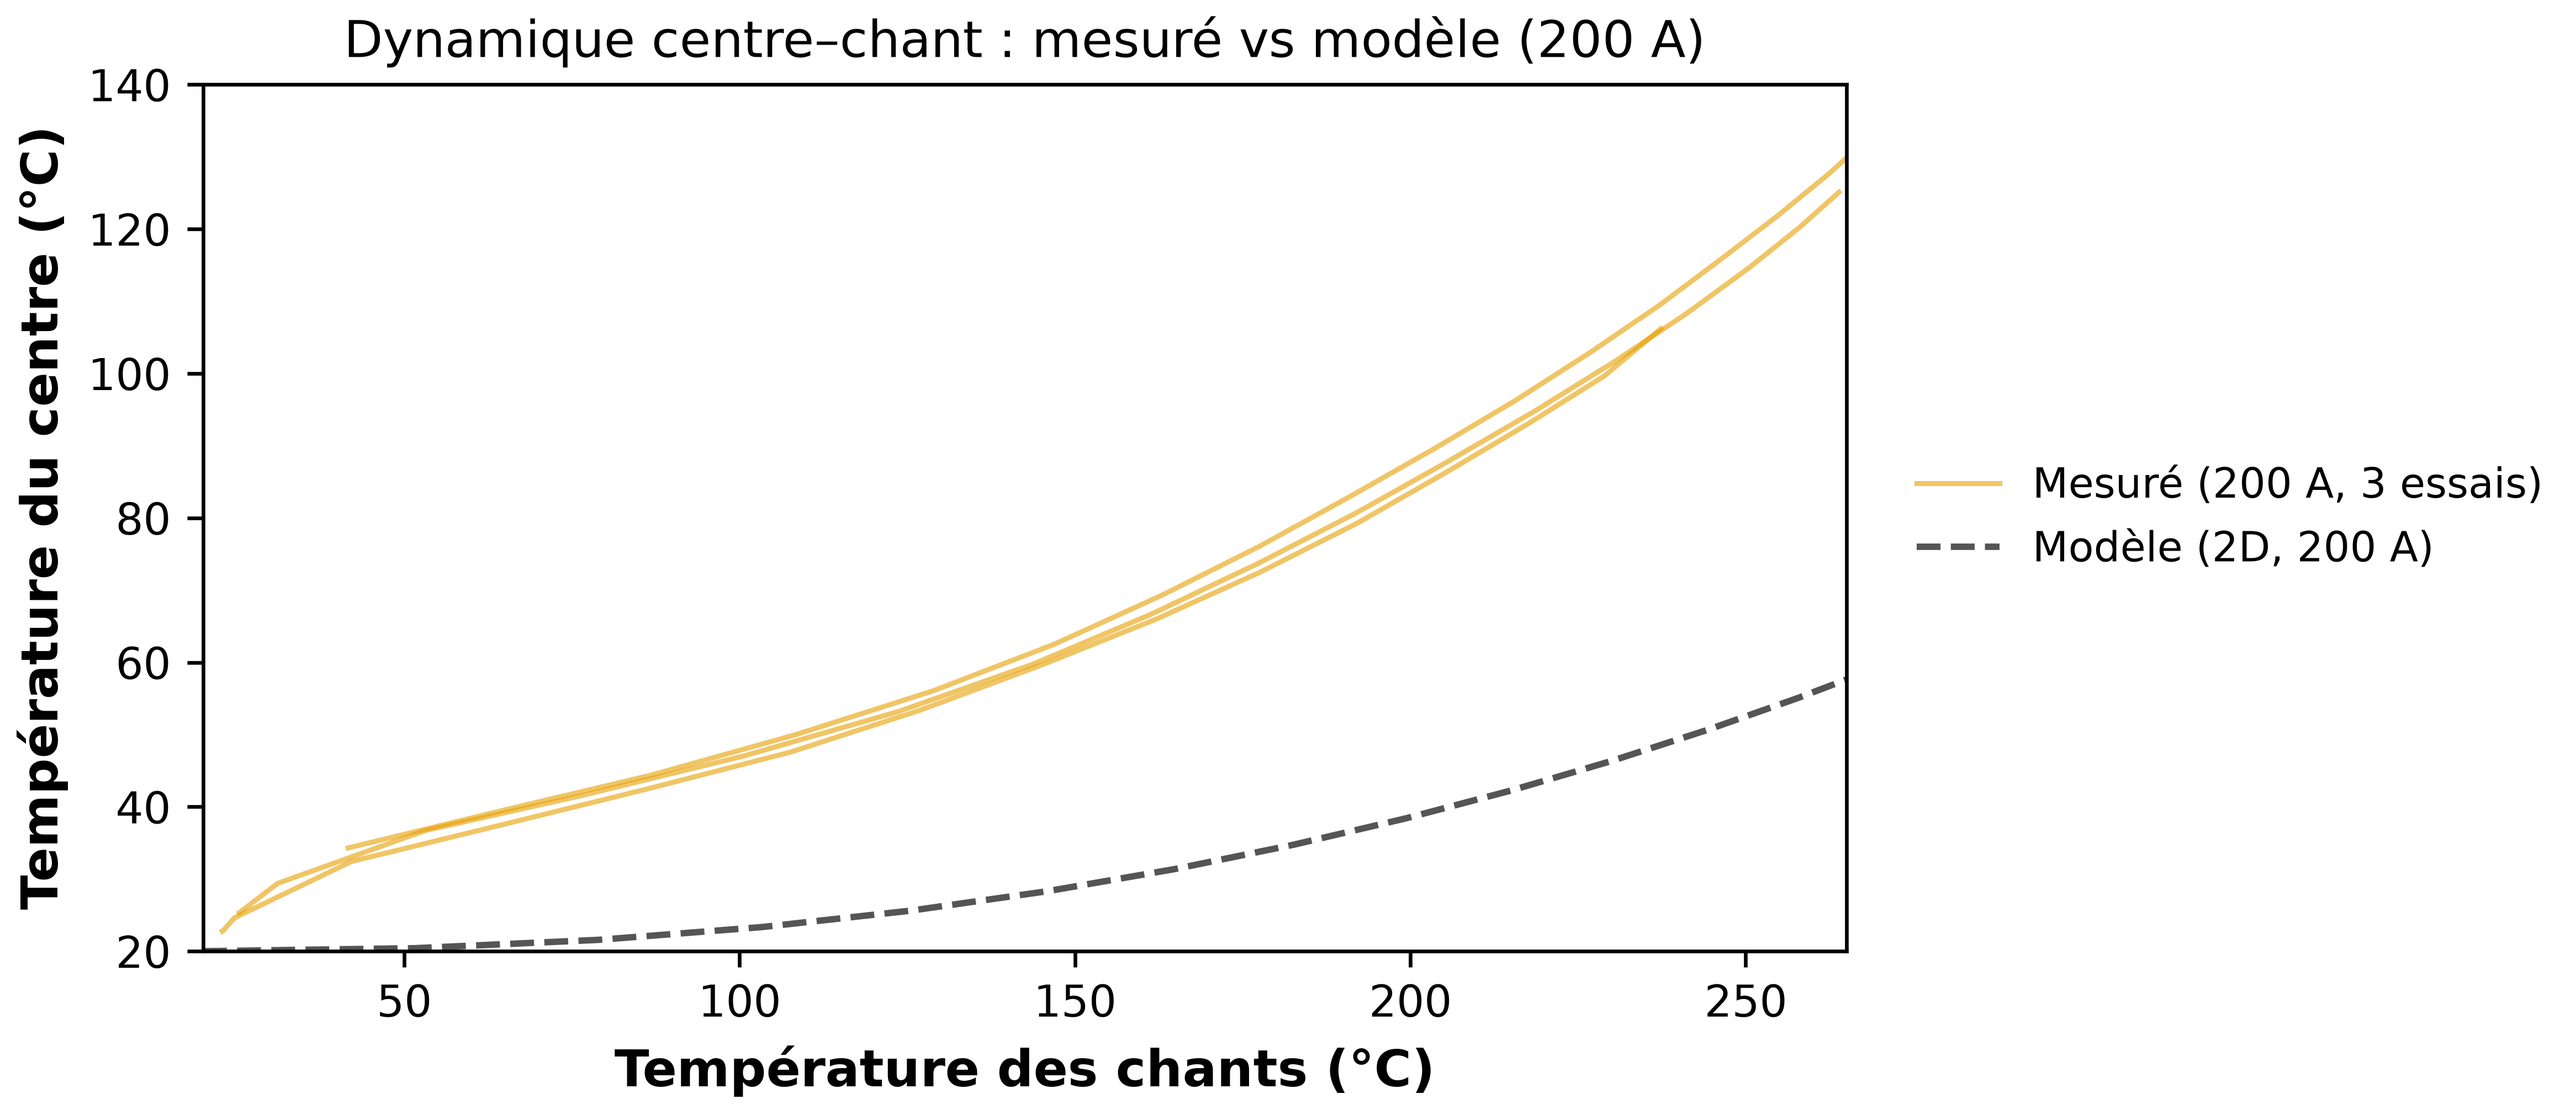
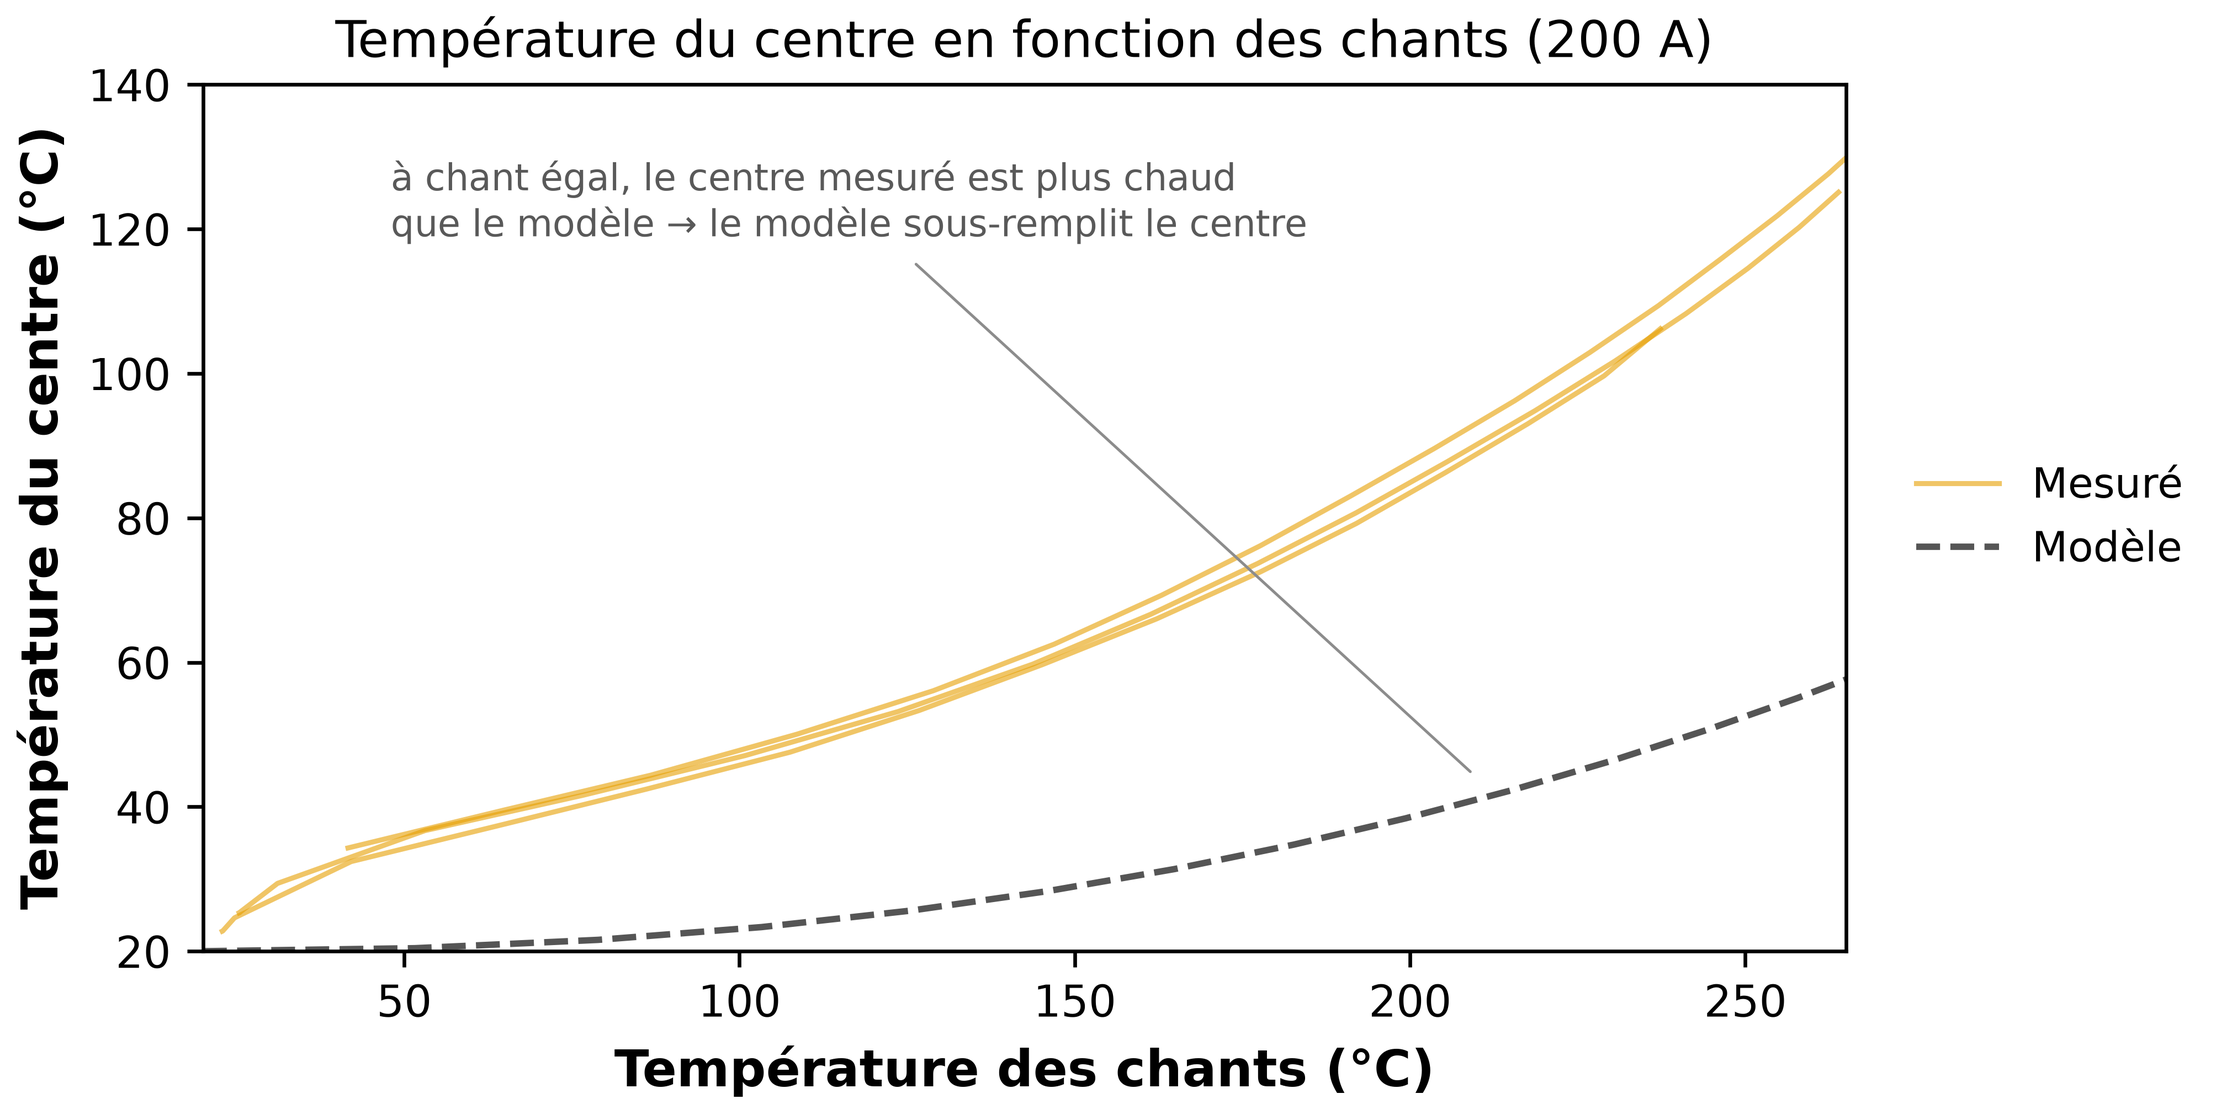
figs: fig3 (titre clair + annotation + légende courte), dissipation (titre), k_plan (titre simplifié, L/tau -> mots littérature)

diff --git a/code/scripts/diag/diag_kplan_direct.py b/code/scripts/diag/diag_kplan_direct.py
@@ -90,11 +90,11 @@ ax[0].plot(XPOS * 1e3, r["dTpk"] + Tinf, "o", color=C_MES, ms=8, label="T au pic
 xx = np.linspace(60, 120, 50)
 s, b = np.polyfit(r["dist"][[2, 3, 4]], np.log(r["dTpk"][[2, 3, 4]]), 1)
 ax[0].plot(xx, np.exp(b + s * (xx - 60) / 1e3) + Tinf, "--", color=C_FIT,
-           label=fr"décroissance, $L\approx{r['L']*1e3:.0f}$ mm")
+           label=fr"longueur caractéristique ≈ {r['L']*1e3:.0f} mm")
 ax[0].axvline(60, color="0.6", ls=":", lw=1)
 ax[0].set_xlabel("x (mm)  — spot à 60")
 ax[0].set_ylabel("Température (°C)")
-ax[0].set_title("(a) Longueur de décroissance $L$")
+ax[0].set_title("(a) Étalement de la chaleur dans la longueur")
 ax[0].legend(fontsize=8)
 
 j = 2
@@ -102,17 +102,16 @@ ax[1].plot(r["t"], r["dT"][:, j] + Tinf, "-", color=C_MES, label="TC3 (spot)")
 m = (r["t"] > r["tcut"] + 15) & (r["dT"][:, j] > 3)
 s, b = np.polyfit(r["t"][m], np.log(r["dT"][m, j]), 1)
 ax[1].plot(r["t"][m], np.exp(b + s * r["t"][m]) + Tinf, "--", color=C_FIT,
-           label=fr"refroidissement, $\tau\approx{r['tau']:.0f}$ s")
+           label=fr"constante de temps ≈ {r['tau']:.0f} s")
 ax[1].axvline(r["tcut"], color="0.6", ls=":", lw=1)
 ax[1].set_xlabel("t (s)")
 ax[1].set_ylabel("Température (°C)")
-ax[1].set_title(r"(b) Constante de refroidissement $\tau$")
+ax[1].set_title("(b) Refroidissement après coupure de la source")
 ax[1].legend(fontsize=8)
 
 fig.suptitle(
-    f"Extraction directe de k_plan (exp9 centre y=20, hors calage) — "
-    f"200 A : {r200['k']:.1f} · 175 A : {r175['k']:.1f} W/m·K   "
-    f"(config {K_CONFIG:.0f} ; calibré ~7,3)", fontsize=10.5)
+    "Conductivité thermique dans le plan mesurée directement (exp9 centre) — "
+    f"k_plan ≈ {r175['k']:.0f}–{r200['k']:.0f} W/m·K", fontsize=11)
 fig.tight_layout()
 savefig(fig, R / "biblio" / "labo" / "figures" / "fig_kplan_direct_exp9")
 print("figure -> biblio/labo/figures/fig_kplan_direct_exp9.png")

diff --git a/code/scripts/gen/gen_figures_elsevier.py b/code/scripts/gen/gen_figures_elsevier.py
@@ -246,7 +246,7 @@ def fig3():
         centre = dfc["TC3"].to_numpy()                          # °C brut
         i = int(np.argmax(chant))
         ax.plot(chant[:i + 1], centre[:i + 1], "-", color=C200, alpha=0.6, lw=1.1,
-                label="Mesuré (200 A, 3 essais)" if first else None)
+                label="Mesuré" if first else None)
         first = False
 
     from jumeau.materiaux import Config
@@ -268,9 +268,12 @@ def fig3():
     eM = np.maximum(sv.serie_temporelle(sol, 0.060, 0.0, "interface"),
                      sv.serie_temporelle(sol, 0.060, 0.040, "interface"))   # °C brut
     i = int(np.argmax(eM))
-    ax.plot(eM[:i + 1], cM[:i + 1], "--", color=C_MODEL, lw=1.4, label="Modèle (2D, 200 A)")
+    ax.plot(eM[:i + 1], cM[:i + 1], "--", color=C_MODEL, lw=1.4, label="Modèle")
 
-    ax.set_title("Dynamique centre–chant : mesuré vs modèle (200 A)")
+    ax.set_title("Température du centre en fonction des chants (200 A)")
+    ax.annotate("à chant égal, le centre mesuré est plus chaud\nque le modèle → le modèle sous-remplit le centre",
+                xy=(210, 44), xytext=(48, 130), fontsize=8, color="0.35",
+                ha="left", va="top", arrowprops=dict(arrowstyle="-", color="0.55", lw=0.6))
     ax.set_xlabel("Température des chants (°C)")
     ax.set_ylabel("Température du centre (°C)")
     ax.set_xlim(20, 265)
@@ -490,7 +493,7 @@ def fig_dissipation_monospot():
     axa.set_xticks(x)
     axa.set_xlabel("Position en longueur $x$ (mm)")
     axa.set_ylabel("Température (°C)")
-    axa.set_title("Décroissance longitudinale : mesuré vs modèle (spot unique, $y$=0)")
+    axa.set_title("Décroissance longitudinale de la température (spot unique, $y$=0)")
     legend_right(axa, title="Courant")
     fig.tight_layout()
     savefig(fig, "fig_dissipation_monospot.png")
